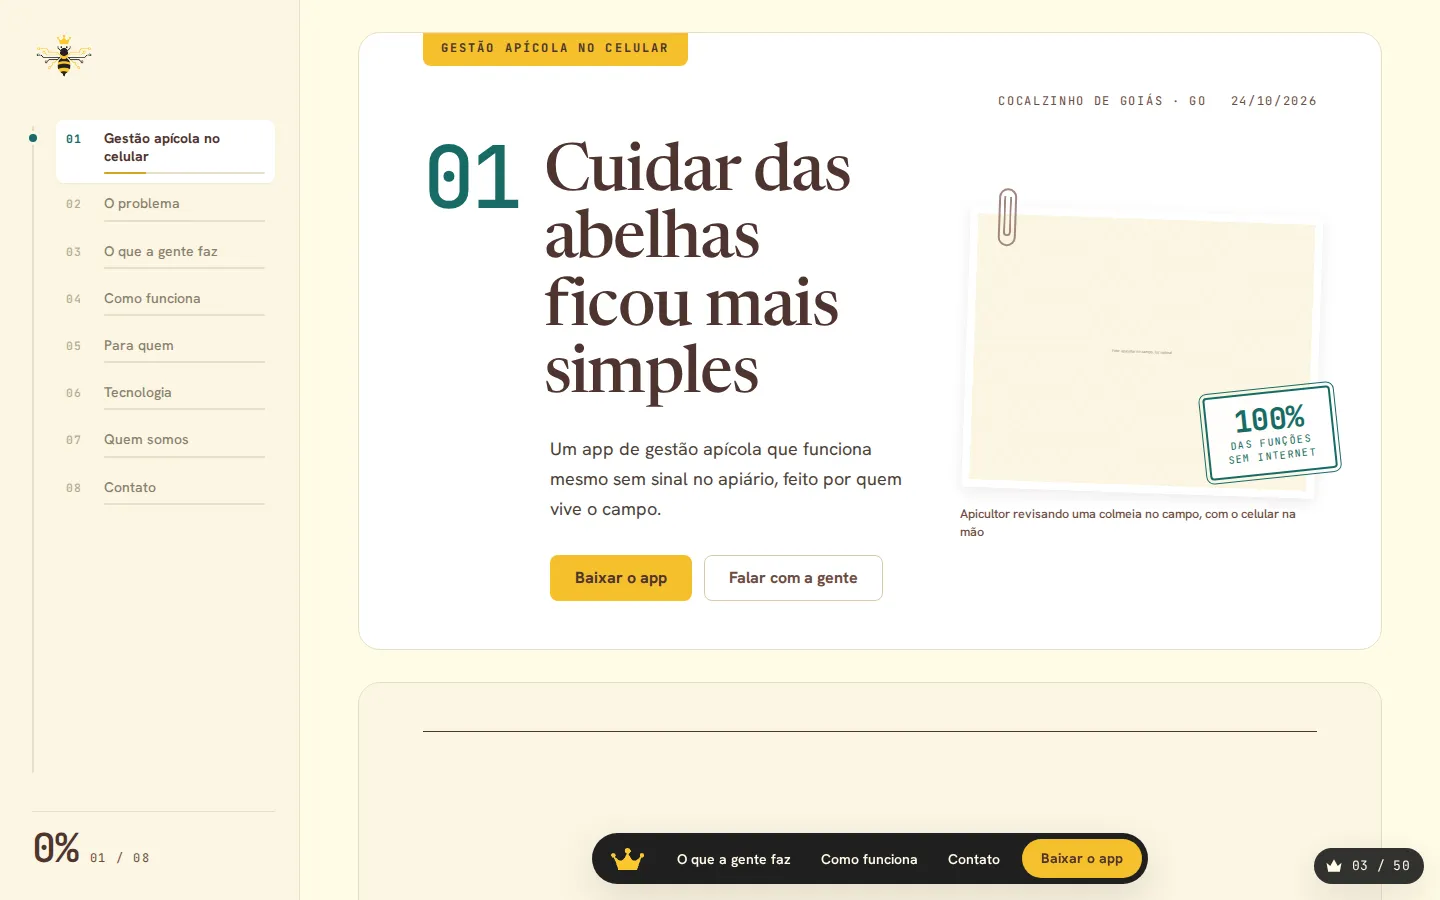
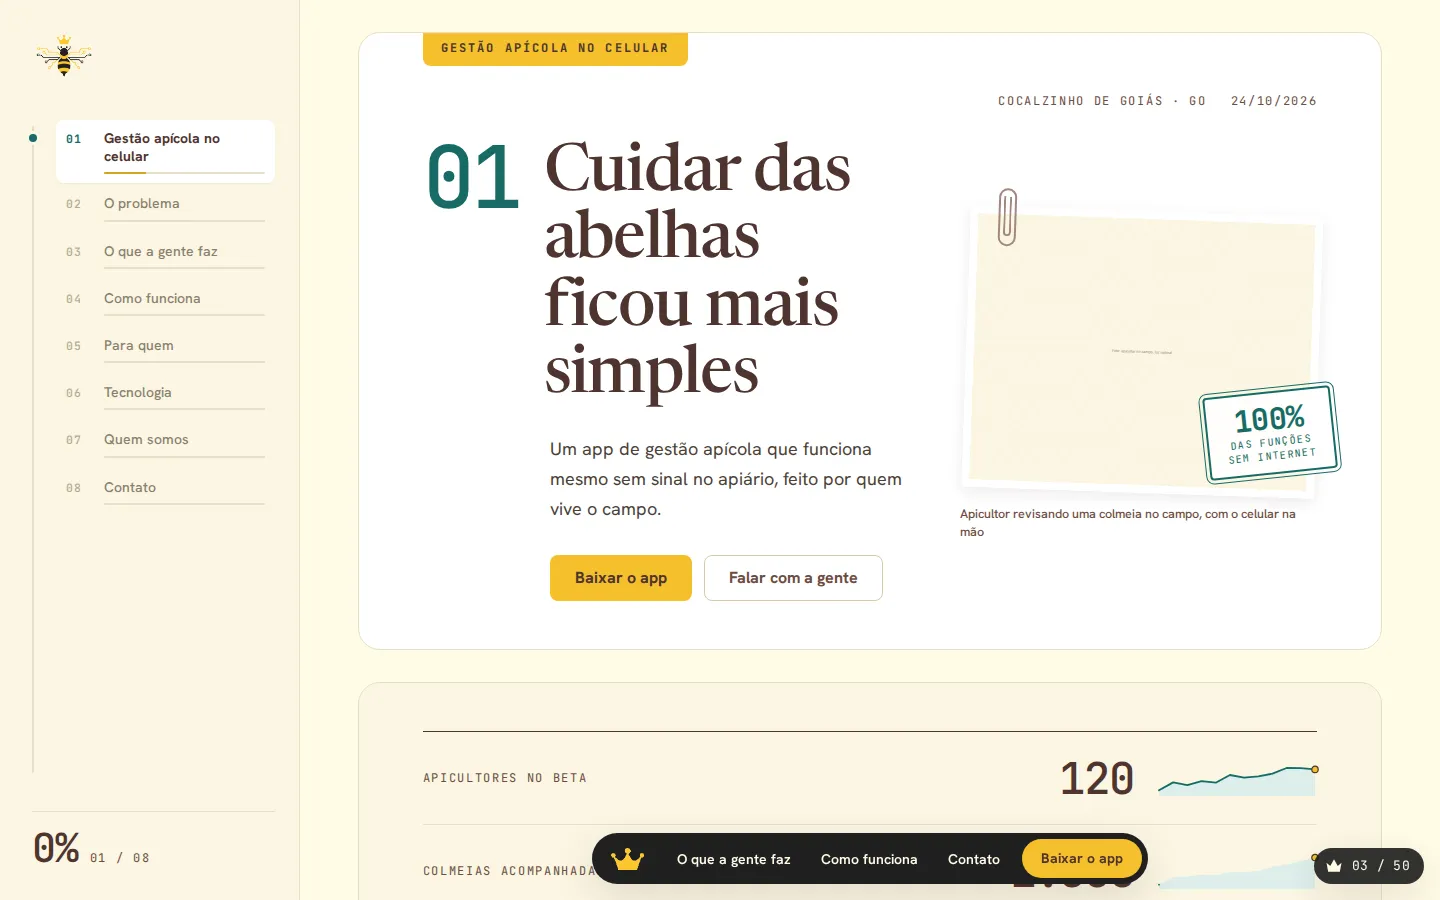
Corrige apoios em faixa grafite e formulário sem flip no 05 e números visíveis no 03

diff --git a/templates/05-almanaque.html b/templates/05-almanaque.html
@@ -106,6 +106,8 @@
       font-family: var(--mono); font-weight: 700; font-size: 22px;
     }
     .ficha .dr-icone { color: var(--petroleo); }
+    /* O formulário nunca depende de animação: ficha fixa, sem verso nem flip. */
+    .ficha--estatica { perspective: none; }
 
     /* ---------- Hero: página de abertura do almanaque ---------- */
     main > section[data-secao="hero"] { padding-top: var(--sp-6); }
@@ -215,12 +217,13 @@
     .pessoa__linha { display: grid; grid-template-columns: 72px minmax(0, 1fr); gap: var(--sp-4); align-items: center; }
     .pessoa img { width: 72px; height: 72px; border-radius: 50%; object-fit: cover; border: 1px solid var(--linha-forte); }
     .pessoa p { margin-top: 4px; font-family: var(--mono); font-size: 11.5px; letter-spacing: .1em; text-transform: uppercase; color: var(--terra); line-height: 1.5; }
-    .apoios { display: flex; flex-wrap: wrap; gap: var(--sp-3); margin-top: var(--sp-6); }
-    .apoio { display: inline-flex; align-items: center; gap: var(--sp-3); padding: 8px 20px 8px 8px; border: 1px solid var(--linha-forte); border-radius: var(--r-pill); background: var(--branco); }
-    .apoio__logo { display: grid; place-items: center; height: 56px; padding: 6px 16px; border-radius: var(--r-pill); background: var(--creme); }
-    .apoio[data-fundo="escuro"] .apoio__logo { background: var(--grafite); }
+    /* Faixa grafite: a logo do Centelha é negativa e só funciona no escuro. */
+    .apoios { display: flex; flex-wrap: wrap; align-items: center; gap: var(--sp-3); margin-top: var(--sp-6); padding: var(--sp-5); background: var(--grafite); border-radius: var(--r-lg); }
+    .apoio { display: inline-flex; align-items: center; gap: var(--sp-3); padding: 8px 20px 8px 8px; border: 1px solid var(--grafite-suave); border-radius: var(--r-pill); }
+    .apoio__logo { display: grid; place-items: center; height: 56px; padding: 6px 16px; border-radius: var(--r-pill); }
+    .apoio[data-fundo="claro"] .apoio__logo { background: var(--creme); }
     .apoio__logo img { max-height: 40px; width: auto; max-width: 120px; }
-    .apoio__nome { font-family: var(--mono); font-size: var(--fs-eyebrow); letter-spacing: .18em; text-transform: uppercase; color: var(--terra); }
+    .apoio__nome { font-family: var(--mono); font-size: var(--fs-eyebrow); letter-spacing: .18em; text-transform: uppercase; color: var(--mel-claro); }
 
     /* Depoimento (grafite) */
     .citacao { display: grid; grid-template-columns: minmax(0, 1fr); justify-items: center; text-align: center; max-width: 900px; margin-inline: auto; }
@@ -525,7 +528,7 @@
             </li>
           </template>
         </ul>
-        <!-- Centelha só funciona no escuro: a pílula dele ganha placa grafite -->
+        <!-- Apoios numa faixa grafite (Centelha é negativa); logos de fundo claro ganham placa creme -->
         <ul class="apoios" data-c-lista="equipe.apoios">
           <template>
             <li class="apoio">
@@ -565,7 +568,7 @@
           <p class="dr-body-lg" data-c="contato.texto"></p>
         </header>
         <div class="contato-grade">
-          <div class="ficha" data-ficha>
+          <div class="ficha ficha--estatica">
             <div class="ficha__in">
               <div class="frente">
                 <form class="form" method="post" data-form-contato>
@@ -585,7 +588,6 @@
                   <button class="dr-btn dr-btn--primario" type="submit" data-c="contato.form.enviar"></button>
                 </form>
               </div>
-              <div class="verso" aria-hidden="true"></div>
             </div>
           </div>
           <div>

diff --git a/templates/03-dossie.html b/templates/03-dossie.html
@@ -724,8 +724,8 @@
           tl.from('.anexo', { autoAlpha: 0, rotation: 7, y: 30, duration: 0.6, ease: 'power3.out' }, 0.4);
           tl.from('[data-carimbo]', { scale: 1.8, autoAlpha: 0, duration: 0.3, ease: 'power4.in' }, 0.95);
 
-          // Cada folha sobe ao entrar; as linhas da tabela entram e as sparklines se traçam.
-          gsap.utils.toArray('main > section:not(.capa-dossie)').forEach(function (sec) {
+          // Cada folha sobe ao entrar (a folha de números, logo abaixo da capa, fica parada para aparecer na primeira tela); as linhas da tabela entram e as sparklines se traçam.
+          gsap.utils.toArray('main > section:not(.capa-dossie):not(.folha--anexa)').forEach(function (sec) {
             gsap.from(sec, { y: 40, duration: 0.7, ease: 'power3.out', scrollTrigger: { trigger: sec, start: 'top 92%', once: true } });
           });
           gsap.utils.toArray('.tabela, .achados, .anexos, .perfis, .fichas-pessoa').forEach(function (lista) {
